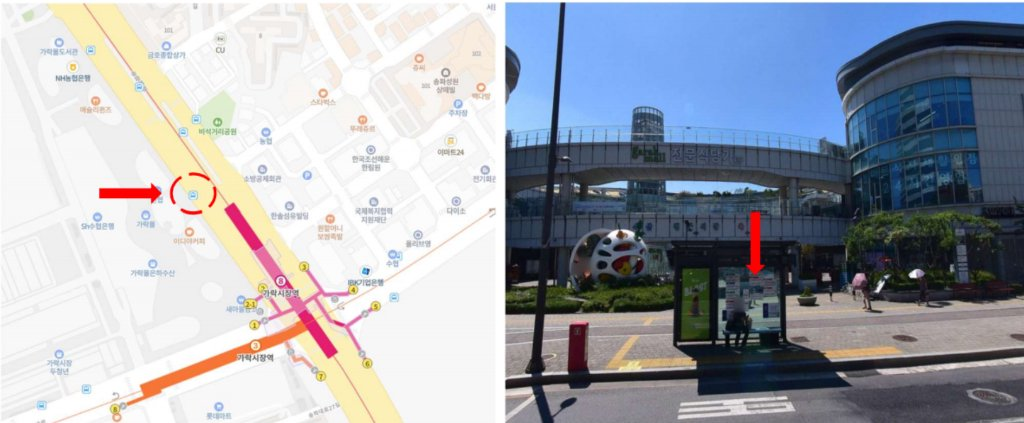
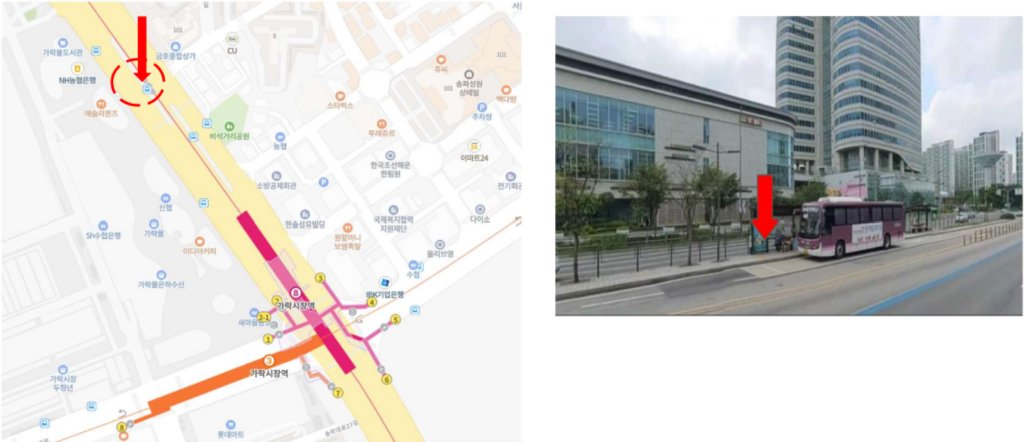
feat: 잠실노선 5개 정류장(가락시장역, 문정역, 장지역, 복정역, 모란역) 탑승 위치 사진 및 상세 안내 등록

diff --git a/src/data/shuttleBoardingLocations.ts b/src/data/shuttleBoardingLocations.ts
@@ -194,13 +194,13 @@ export const SHUTTLE_BOARDING_LOCATIONS: Record<string, BoardingLocationInfo> = 
   "가락시장역": {
     id: "garakmarket",
     stationName: "가락시장역",
-    aliasNames: ["가락시장역", "가락시장역 3번출구", "가락시장역 2번출구", "가락시장역 중앙차선", "가락몰"],
+    aliasNames: ["가락시장역", "가락시장역 3번출구", "가락시장역 2번출구", "가락시장역 2-1번출구", "가락시장역 중앙차선", "가락몰"],
     routeName: "잠실노선 통근버스",
     busType: "commute",
-    exactLocation: "가락시장역 중앙차선 버스정류장 (가락몰 앞)",
-    address: "서울 송파구 송파대로 257 (가락시장역 가락몰 앞 중앙차선)",
-    landmarks: "가락몰 전문식당가 건물 앞 송파대로 중앙차선 버스 쉘터 (빨간 화살표 위치)",
-    tip: "3호선/8호선 환승 후 가락몰 방면 중앙차선 정류소에서 탑승합니다.",
+    exactLocation: "가락시장역 송파대로 중앙차선 버스정류장 (가락몰 앞)",
+    address: "서울 송파구 송파대로 257 (가락시장역 가락몰 앞 중앙차선 버스 쉘터)",
+    landmarks: "가락시장역 2-1번·3번 출구 나와 송파대로 중앙차선 버스 쉘터 (가락몰 전문식당가 앞, 빨간 화살표 위치)",
+    tip: "3호선/8호선 가락시장역 환승 후 가락몰 방면 송파대로 중앙차선 버스 쉘터에서 탑승합니다.",
     imageUrl: "/images/boarding/garakmarket.jpg",
     coords: { lat: 37.492249, lng: 127.117642 },
     kakaoMapUrl: "https://map.kakao.com/link/to/가락시장역통근탑승장,37.492249,127.117642"
@@ -208,13 +208,13 @@ export const SHUTTLE_BOARDING_LOCATIONS: Record<string, BoardingLocationInfo> = 
   "문정역": {
     id: "munjeong",
     stationName: "문정역",
-    aliasNames: ["문정역", "문정역 3번출구", "문정역 중앙차선"],
+    aliasNames: ["문정역", "문정역 2번출구", "문정역 3번출구", "문정역 중앙차선", "문정오피스텔"],
     routeName: "잠실노선 통근버스",
     busType: "commute",
-    exactLocation: "문정역 8호선 3번 출구 버스중앙차선 정류장",
-    address: "서울 송파구 송파대로 175 (문정역 3번 출구)",
-    landmarks: "문정로데오거리 및 테라타워 방면 중앙차선 승강장",
-    tip: "중앙차선 정류장에서 승차합니다.",
+    exactLocation: "문정역 2번·3번 출구 남측 송파대로 중앙차선 버스정류장 (문정오피스텔 앞)",
+    address: "서울 송파구 송파대로 175 (문정역 중앙차선 승강장)",
+    landmarks: "문정역 2번·3번 출구 남측 송파대로 중앙차선 버스 쉘터 (문정오피스텔 / 송파법조타운 푸르지오시티 앞, 빨간 화살표 위치)",
+    tip: "송파대로 중앙차선 버스 쉘터에서 탑승합니다. 정시 발차하므로 5분 전 미리 대기해 주세요.",
     imageUrl: "/images/boarding/munjeong.jpg",
     coords: { lat: 37.486042, lng: 127.122159 },
     kakaoMapUrl: "https://map.kakao.com/link/to/문정역통근탑승장,37.486042,127.122159"
@@ -222,13 +222,13 @@ export const SHUTTLE_BOARDING_LOCATIONS: Record<string, BoardingLocationInfo> = 
   "장지역": {
     id: "jangji",
     stationName: "장지역",
-    aliasNames: ["장지역", "장지역 1번출구", "가든파이브 장지역"],
+    aliasNames: ["장지역", "장지역 1번출구", "장지역 4번출구", "가든파이브 장지역", "가든파이브라이프", "가든파이브 영관"],
     routeName: "잠실노선 통근버스",
     busType: "commute",
-    exactLocation: "장지역 8호선 1번 출구 버스정류장",
-    address: "서울 송파구 송파대로 111 (장지역 1번 출구 가든파이브 앞)",
-    landmarks: "가든파이브 라이프동 앞 가변차로 버스정류장",
-    tip: "가든파이브 방면 도로변 승강장에서 대기해 주세요.",
+    exactLocation: "장지역 1번·4번 출구 남측 가든파이브 앞 가변차로(도로변) 버스정류장",
+    address: "서울 송파구 충민로 66 (가든파이브라이프 영관 앞 도로변 버스정류소)",
+    landmarks: "장지역 1번·4번 출구 나와 가든파이브 라이프동·영관 앞 도로변 버스정류소 쉘터 (빨간 화살표 위치)",
+    tip: "중앙차선이 아닌 가든파이브 쪽 가변차로(도로변) 버스정류장에서 탑승하므로 주의해 주세요.",
     imageUrl: "/images/boarding/jangji.jpg",
     coords: { lat: 37.478785, lng: 127.126432 },
     kakaoMapUrl: "https://map.kakao.com/link/to/장지역통근탑승장,37.478785,127.126432"
@@ -236,13 +236,13 @@ export const SHUTTLE_BOARDING_LOCATIONS: Record<string, BoardingLocationInfo> = 
   "복정역": {
     id: "bokjeong",
     stationName: "복정역",
-    aliasNames: ["복정역", "복정역 1번출구", "복정 환승센터"],
+    aliasNames: ["복정역", "복정역 1번출구", "복정역 2번출구", "복정역 1-1번출구", "복정 환승센터", "복정역 환승주차장"],
     routeName: "잠실노선 통근버스",
     busType: "commute",
-    exactLocation: "복정역 8호선 1번 출구 버스정류장",
-    address: "서울 송파구 장지동 (복정역 1번 출구)",
-    landmarks: "1번 출구 환승 주차장 및 버스정류소 부근",
-    tip: "8호선/수인분당선 환승객 승차가 많은 정류장입니다.",
+    exactLocation: "복정역 2번·1-1번 출구 남서쪽 환승주차장 옆 도로변 버스정류장",
+    address: "서울 송파구 장지동 597 (복정역 환승주차장 앞 도로변)",
+    landmarks: "복정역 2번 및 1-1번 출구 나와 복정역 환승주차장 옆 도로변 버스정류소 쉘터 (빨간 화살표 위치)",
+    tip: "8호선/수인분당선 복정역 환승주차장 옆 도로변 버스정류소에서 탑승합니다.",
     imageUrl: "/images/boarding/bokjeong.jpg",
     coords: { lat: 37.471531, lng: 127.127042 },
     kakaoMapUrl: "https://map.kakao.com/link/to/복정역통근탑승장,37.471531,127.127042"
@@ -250,13 +250,13 @@ export const SHUTTLE_BOARDING_LOCATIONS: Record<string, BoardingLocationInfo> = 
   "모란역": {
     id: "moran",
     stationName: "모란역",
-    aliasNames: ["모란역", "모란역 5번출구", "수인분당선 모란역"],
+    aliasNames: ["모란역", "모란역 9번출구", "모란역 5번출구", "모란역 삼성스토어", "모란역 스타벅스", "수인분당선 모란역"],
     routeName: "잠실노선 통근버스",
     busType: "commute",
-    exactLocation: "모란역 수인분당선 5번 출구 앞",
-    address: "경기 성남시 중원구 성남대로 1147 (모란역 5번 출구)",
-    landmarks: "5번 출구 나와서 바로 앞 도로변 승강장",
-    tip: "모란시장 사거리 부근이며, 5번 출구 바로 앞에서 탑승합니다.",
+    exactLocation: "모란역 9번 출구 서쪽 삼성스토어 모란점 앞 도로변 버스 승강장",
+    address: "경기 성남시 중원구 성남대로 1149 (삼성스토어 모란점 앞 도로변)",
+    landmarks: "모란역 9번 출구 나와 서쪽 도보 직진, 삼성스토어 모란점 / 스타벅스 건물 앞 도로변 버스 승강장 (빨간 화살표 위치)",
+    tip: "9번 출구 나와 삼성스토어 앞 도로변 승강장에서 통근버스가 정차합니다. 5분 전 미리 대기해 주세요.",
     imageUrl: "/images/boarding/moran.jpg",
     coords: { lat: 37.431163, lng: 127.128985 },
     kakaoMapUrl: "https://map.kakao.com/link/to/모란역통근탑승장,37.431163,127.128985"
